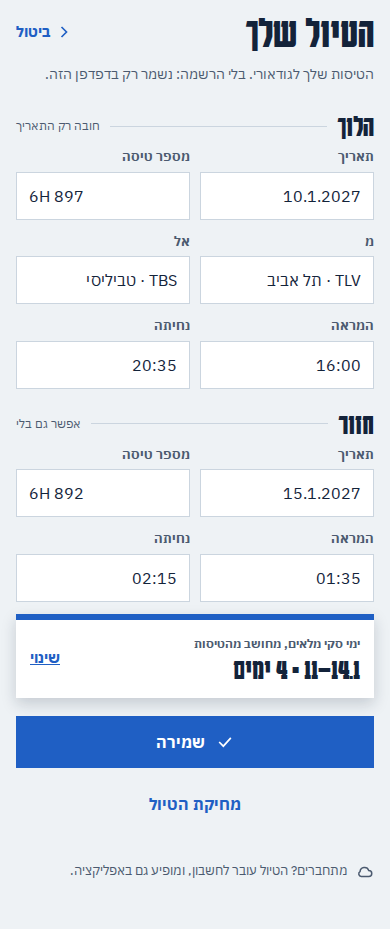
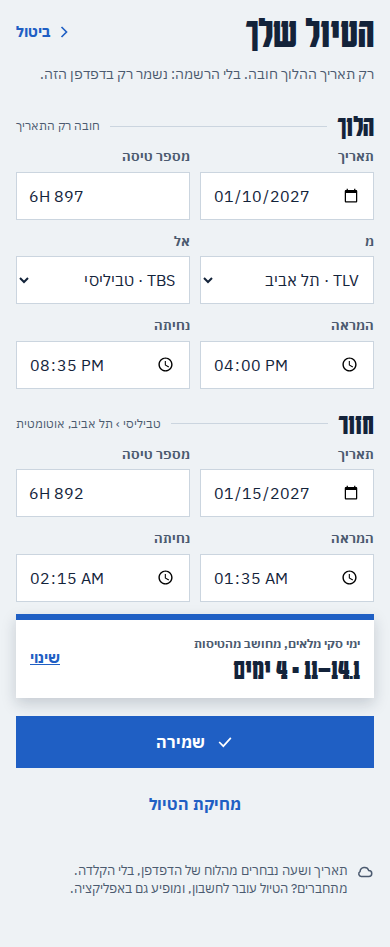
סבב 12: טופס הטיול באתר בלי הקלדה של תאריכים ושעות
Claude-Session: https://claude.ai/code/session_01YWgsVi3W636coCw6wabhWZ

diff --git a/design/round12/proto-lib.js b/design/round12/proto-lib.js
@@ -88,20 +88,25 @@ function page(html, wide = false) {
 const head = (t, back = 'בית') => `<div class="r12-head"><h1>${t}</h1><a href="#home">${ic('back')}${back}</a></div>`;
 
 function tripForm() {
+  // Pini (2.10.2026, on the app's form): typing dates and numbers by hand is uncomfortable. So: the browser's own
+  // date and time pickers, the destination starts as Tbilisi, and the return is the outbound the other way round.
   page.me = false;
+  const inp = (label, type, value, extra = '') => `<div class="r12-fld"><label>${label}</label><input type="${type}" value="${value}"${extra}></div>`;
+  const sel = (label, opts, pick) => `<div class="r12-fld"><label>${label}</label><select class="r12-sel">${opts.map(o => `<option${o === pick ? ' selected' : ''}>${o}</option>`).join('')}</select></div>`;
+  const airports = ['TLV · תל אביב', 'TBS · טביליסי', 'KUT · קוטאיסי'];
   page(head('הטיול שלך', 'ביטול')
-    + `<p class="r12-lead">הטיסות שלך לגודאורי. בלי הרשמה: נשמר רק בדפדפן הזה.</p>`
+    + `<p class="r12-lead">רק תאריך ההלוך חובה. בלי הרשמה: נשמר רק בדפדפן הזה.</p>`
     + `<form style="display:flex;flex-direction:column;gap:12px">`
     + `<div class="r12-sec"><b>הלוך</b><i></i><span>חובה רק התאריך</span></div>`
-    + `<div class="r12-grid">${fld('תאריך', '10.1.2027')}${fld('מספר טיסה', '6H 897', 'למשל 6H 897', true)}</div>`
-    + `<div class="r12-grid">${fld('מ', 'TLV · תל אביב')}${fld('אל', 'TBS · טביליסי')}</div>`
-    + `<div class="r12-grid">${fld('המראה', '16:00')}${fld('נחיתה', '20:35')}</div>`
-    + `<div class="r12-sec" style="margin-top:8px"><b>חזור</b><i></i><span>אפשר גם בלי</span></div>`
-    + `<div class="r12-grid">${fld('תאריך', '15.1.2027')}${fld('מספר טיסה', '6H 892', '', true)}</div>`
-    + `<div class="r12-grid">${fld('המראה', '01:35')}${fld('נחיתה', '02:15')}</div>`
+    + `<div class="r12-grid">${inp('תאריך', 'date', '2027-01-10')}${inp('מספר טיסה', 'text', '6H 897', ' dir="ltr" style="text-transform:uppercase" autocapitalize="characters" placeholder="למשל 6H 897"')}</div>`
+    + `<div class="r12-grid">${sel('מ', airports, 'TLV · תל אביב')}${sel('אל', airports, 'TBS · טביליסי')}</div>`
+    + `<div class="r12-grid">${inp('המראה', 'time', '16:00')}${inp('נחיתה', 'time', '20:35')}</div>`
+    + `<div class="r12-sec" style="margin-top:8px"><b>חזור</b><i></i><span dir="rtl">טביליסי › תל אביב, אוטומטית</span></div>`
+    + `<div class="r12-grid">${inp('תאריך', 'date', '2027-01-15')}${inp('מספר טיסה', 'text', '6H 892', ' dir="ltr" style="text-transform:uppercase"')}</div>`
+    + `<div class="r12-grid">${inp('המראה', 'time', '01:35')}${inp('נחיתה', 'time', '02:15')}</div>`
     + `<div class="r12-card" style="padding:12px 14px;display:flex;justify-content:space-between;align-items:center"><span><small style="font-size:12px;font-weight:600;color:var(--muted)">ימי סקי מלאים, מחושב מהטיסות</small><br><b style="font-family:var(--f-display);font-size:30px;line-height:1"><span dir="ltr">11–14.1</span> · 4 ימים</b></span><a href="#" style="font-weight:700;min-height:44px;display:inline-flex;align-items:center">שינוי</a></div>`
     + `<div class="r12-btns" style="margin-top:6px"><button type="button" class="r12-btn blue">${ic('check')}שמירה</button><button type="button" class="r12-btn quiet">מחיקת הטיול</button></div></form>`
-    + note('מתחברים? הטיול עובר לחשבון, ומופיע גם באפליקציה.', 'cloud'));
+    + note('תאריך ושעה נבחרים מהלוח של הדפדפן, בלי הקלדה. מתחברים? הטיול עובר לחשבון, ומופיע גם באפליקציה.', 'cloud'));
 }
 
 function signIn() {

diff --git a/design/canvas/project/W2-TripForm.dc.html b/design/canvas/project/W2-TripForm.dc.html
@@ -2,7 +2,7 @@
 <html lang="he" dir="rtl">
 <head>
 <meta charset="utf-8">
-<title>הטיול שלך באתר</title>
+<title>הטיול שלך באתר: בוררי תאריך ושעה</title>
 <script src="./support.js"></script>
 </head>
 <body>
@@ -12,9 +12,9 @@
 body{margin:0;background:#EEF2F5}
 </style>
 </helmet>
-<div style="width: 390px; height: 929px; overflow: hidden; background: #EEF2F5"><img src="/_blob/a0105af559e14ce274dc4dec5af8eb46" alt="הטיול שלך באתר, צילום מסך של אב טיפוס בתוך האתר" style="display: block; width: 390px; height: auto"></div>
+<div style="width: 390px; height: 947px; overflow: hidden; background: #EEF2F5"><img src="/_blob/e2da89b5a7b06fe2ff19d9f8052c18b4" alt="הטיול שלך באתר: בוררי תאריך ושעה, צילום מסך של אב טיפוס בתוך האתר" style="display: block; width: 390px; height: auto"></div>
 </x-dc>
-<script type="text/x-dc" data-dc-script data-props='{"$preview":{"width":390,"height":929}}'>
+<script type="text/x-dc" data-dc-script data-props='{"$preview":{"width":390,"height":947}}'>
 class Component extends DCLogic {
   renderVals() { return {}; }
 }

diff --git a/design/round12/proto.css b/design/round12/proto.css
@@ -138,3 +138,4 @@
 .gondola{position:absolute;inset:0;pointer-events:none;z-index:2}
 .gondola a{pointer-events:auto;position:absolute;display:block;width:56px;height:84px;text-decoration:none}
 .gondola .cab-tag{position:absolute;top:86px;left:50%;transform:translateX(-50%);padding:2px 8px;background:var(--p-blue);color:#fff;font-size:12px;font-weight:700;white-space:nowrap}
+.r12-sel{width:100%;height:48px;font:inherit;font-size:16px;color:var(--ink);background:var(--paper);border:1.5px solid var(--rule);border-radius:0;padding:0 10px}

diff --git a/design/round12/build.py b/design/round12/build.py
@@ -12,7 +12,7 @@ PAGE = ('round12', 'סבב 12: חשבון וקבוצה באתר')
 
 SHOTS = [  # file, title, asset url, width, height, row
     ('W1-GuestHome.dc.html', 'דף הבית: אורח, בלי טיול', '/_blob/93d41006d332e644e4dd1aa4051c4ceb', 390, 1349, 0),
-    ('W2-TripForm.dc.html', 'הטיול שלך באתר', '/_blob/a0105af559e14ce274dc4dec5af8eb46', 390, 929, 0),
+    ('W2-TripForm.dc.html', 'הטיול שלך באתר: בוררי תאריך ושעה', '/_blob/e2da89b5a7b06fe2ff19d9f8052c18b4', 390, 947, 0),
     ('W3-TripHome.dc.html', 'דף הבית: עם הטיול, מחובר', '/_blob/6aedaa3995b3c60f258afd1aebe867eb', 390, 1263, 0),
     ('W11-TripHomeNight.dc.html', 'דף הבית: עם הטיול, בלילה', '/_blob/a663e95db61164786445c495bb6d27ac', 390, 1263, 0),
     ('W4-SignIn.dc.html', 'כניסה: גוגל, אפל, או אורח', '/_blob/4abad587e73d220c1bacb81458409b90', 390, 844, 1),

diff --git a/docs/STATUS.md b/docs/STATUS.md
@@ -239,6 +239,8 @@
 
 מהחדש לישן. שורה לכל עבודה משמעותית: תאריך, מה נעשה, ומה נשאר.
 
+- 2.10.2026: טופס "הטיול שלך" באתר (`W2`) עודכן, בעקבות הערה של פיני על הטופס באפליקציה ("לא מאוד נוח... צריך להשקיע שם הרבה בחוויית משתמש", הועברה מסשן האנדרואיד): בוררי תאריך ושעה של הדפדפן במקום הקלדה, שדות תעופה מרשימה והיעד מתחיל כטביליסי, מסלול החזור מתמלא הפוך להלוך, ומספר הטיסה באותיות גדולות. אותם עקרונות כמו באפליקציה.
+
 - 2.10.2026: פיני על שלוש האפשרויות לכפתור החשבון: "כל האפשרויות גרועות", ולמצוא עיצוב שמתכתב עם השפה והחוויה הקיימות. הוסרו מהקנבס, ובמקומן שני כיוונים בלי כפתור חדש: **1. הכרטיס הוא החשבון** (השם בשדה "נוסע" בכרטיס העלייה פותח את החשבון, "אורח" פותח כניסה; החשבון עצמו כסקי־פס בראש עמוד ההגדרות, כמו "מי בנה"; `P1` עד `P6`), ו-**2. קרון רכבל** על כבל מעל הנוף עם האות הראשונה בחלון (`G1`, `G2`). הבא: בחירה של פיני.
 
 - 2.10.2026: **מסכי הכניסה והקבוצה באפליקציה** (13.5, לבקשת פיני: "תבנה אתה את מסכי הכניסה והקבוצה"), לפי סבב 10 שאושר: הכניסה מהשלט "קבוצה" (`A1`), כניסה עם גוגל (`A2`, דרך מנהל האישורים של אנדרואיד), דף החשבון (`A4`), ההצעה לשמור מקום (`A5`), קבוצה חדשה (`Q1`), הזמנה עם וואטסאפ ושיתוף (`Q2`), ההזמנה כאורח (`Q3`), הקלדת הקוד (`Q4`), "אני כבר בקבוצה" (`Q5`), ודף הקבוצה: טיסות, "אני על אותה טיסה" ומילוי בשביל חבר (`Q6`, `Q7`), מפגשים (`Q8`), שיאים (`Q9`) וחברים עם בקשות ותפקידים (`Q10`). מחוברים לשכבת התקשורת של סשן השרת (`LiveGroupApi.kt`, חמש בדיקות יחידה), והטיול שלך עולה לשרת רק אחרי הצטרפות. 148 מחרוזות חדשות בארבע השפות. **הכרטיס:** אחרי ההערה של פיני שאף אחד לא יודע שיש עוד כרטיס, כרטיס החזור מציץ מאחור, כמו בערימה שאושרה (`AB5`, `AB6`), ונגיעה בו מביאה אותו קדימה. בדיקה חדשה באמולטור (`group`) עם שרת מדומה ושמות מומצאים. **נבדק באמולטור (57 צילומים, בלי שגיאות של האפליקציה):** הכרטיס שמאחור (נגיעה והחלקה), הכניסה, ההזמנה כאורח וההצעה לשמור מקום, הקלדת הקוד, קוד שגוי, "אני כבר בקבוצה", טיסות ו"אני על אותה טיסה", מפגשים, שיאים, ניהול (בקשה, אישור, תפריט חבר), החשבון, לילה ואנגלית. יצירת קבוצה לא נבדקה בריצה הזו, כי התסריט נגע בכותרת במקום בכפתור; התסריט תוקן, והריצה הבאה ב-`main` בודקת אותה. הבא: מזהה הלקוח של גוגל מפיני, ובדיקה בטלפון.
